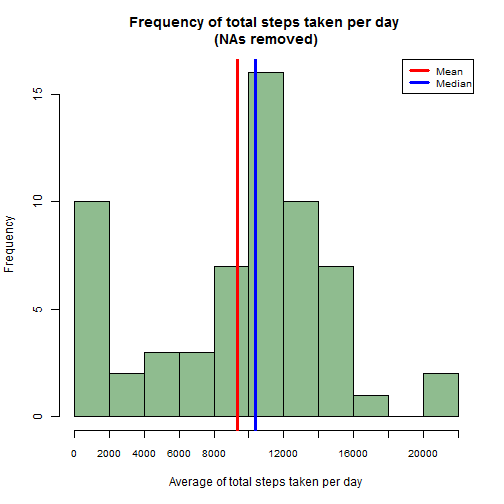
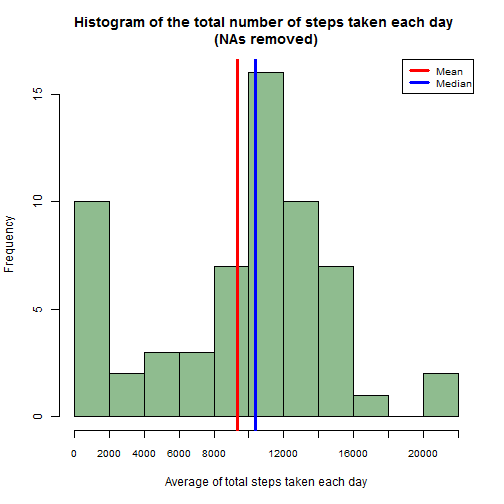
Changed titles of some plots

Changed region(s): [[0.1488, 0.0298, 0.8929, 0.0595], [0.3274, 0.9226, 0.744, 0.9821]]

diff --git a/PA1_template.html b/PA1_template.html
@@ -246,14 +246,14 @@ steptotal &lt;- data.frame(date = names(steptotal), total = steptotal, row.names
 
 <p>Having calculated the totals, we can now build the histogram. We will also include the lines for the mean (red) and median (blue).</p>
 
-<pre><code class="r">hist(steptotal$total, breaks = 11, xaxt = &quot;n&quot;, col = &quot;darkseagreen&quot;, xlab = &quot;Average of total steps taken per day&quot;, main =paste(&quot;Frequency of total steps taken per day&quot;, &quot;\n(NAs removed)&quot;))
+<pre><code class="r">hist(steptotal$total, breaks = 11, xaxt = &quot;n&quot;, col = &quot;darkseagreen&quot;, xlab = &quot;Average of total steps taken each day&quot;, main =paste(&quot;Histogram of the total number of steps taken each day&quot;, &quot;\n(NAs removed)&quot;))
 axis(1, at = seq(0, 22000, 2000), cex.axis = 0.8)
 abline(v = mean(steptotal$total), col = &quot;red&quot;, lwd = 3)
 abline(v = median(steptotal$total), col = &quot;blue&quot;, lwd = 3)
 legend(&quot;topright&quot;, lwd = 3, col = c(&quot;red&quot;, &quot;blue&quot;), legend = c(&quot;Mean&quot;, &quot;Median&quot;), cex = 0.8)
 </code></pre>
 
[2 lines of base64/hex data omitted]
 
 <p>We can see that the mean is smaller than the median and that they&#39;re both close to 10 000 steps per day.</p>
 
@@ -369,7 +369,7 @@ newsteptotal &lt;- data.frame(date = names(newsteptotal), total = newsteptotal, 
 
 <p>Plotting the histogram of the total number of steps taken per day, including the mean (orange), median (purple), and the mean and median from the original data set (red and blue):</p>
 
-<pre><code class="r">hist(newsteptotal$total, breaks = 11, xaxt = &quot;n&quot;, col = &quot;darkseagreen&quot;, xlab = &quot;Average of total steps taken per day&quot;, main =paste(&quot;Frequency of total steps taken per day&quot;, &quot;\n(NAs replaced)&quot;))
+<pre><code class="r">hist(newsteptotal$total, breaks = 11, xaxt = &quot;n&quot;, col = &quot;darkseagreen&quot;, xlab = &quot;Average of total steps taken per day&quot;, main =paste(&quot;Histogram of the total number of steps taken each day&quot;, &quot;\n(NAs replaced)&quot;))
 axis(1, at = seq(0, 22000, 2000), cex.axis = 0.8)
 abline(v = mean(newsteptotal$total), col = &quot;orange&quot;, lwd = 3)
 abline(v = median(newsteptotal$total), col = &quot;purple&quot;, lwd = 3)
@@ -378,7 +378,7 @@ abline(v = median(steptotal$total), col = &quot;blue&quot;, lwd = 3)
 legend(&quot;topright&quot;, lwd = 3, col = c(&quot;orange&quot;, &quot;purple&quot;, &quot;red&quot;, &quot;blue&quot;), legend = c(&quot;Mean&quot;, &quot;Median&quot;, &quot;Mean (original)&quot;, &quot;Median (original)&quot;), cex = 0.8)
 </code></pre>
 
[2 lines of base64/hex data omitted]
 
 <p>Notice the medians overlap, because we used the median of the 5-minute interval to fill in the NAs.
 Calculating both original and new mean:</p>
@@ -455,10 +455,10 @@ head(newstep)
 
 <p>Using the <code>lattice</code> package, we&#39;ll plot the average number of steps averaged across weekday days and weekend days, along the 5-minute interval.</p>
 
-<pre><code class="r">xyplot(steps ~ interval | day, data = replace(weekmean, &quot;day&quot;, structure(weekmean$day, levels = c(&quot;Weekday&quot;, &quot;Weekend&quot;))), type = &quot;l&quot;, layout = c(1, 2), xlab = &quot;5-minute interval&quot;, ylab = &quot;Average number of steps taken&quot;, main= &quot;Average of steps taken in each 5-minute interval, across weekends and weekdays&quot;, par.settings=list(par.main.text=list(cex=0.9)), col = &quot;darkcyan&quot;, lwd = 1.5)
+<pre><code class="r">xyplot(steps ~ interval | day, data = replace(weekmean, &quot;day&quot;, structure(weekmean$day, levels = c(&quot;Weekday&quot;, &quot;Weekend&quot;))), type = &quot;l&quot;, layout = c(1, 2), xlab = &quot;5-minute interval&quot;, ylab = &quot;Average number of steps taken&quot;, main= &quot;Average number of steps taken per 5-minute interval, across weekends and weekdays&quot;, par.settings=list(par.main.text=list(cex=0.9)), col = &quot;darkcyan&quot;, lwd = 1.5)
 </code></pre>
 
[2 lines of base64/hex data omitted]
 
 <p>This suggests the subject wakes up and goes to bed earlier during the weekdays, while waking up and going to bed at later hours during the weekend. 
 During the weekday, apart from the initial spike where the subject is probably going to work, the number of steps is lower than the number of steps on the weekend, for the same time frame.</p>

diff --git a/PA1_template.md b/PA1_template.md
@@ -54,7 +54,7 @@ steptotal <- data.frame(date = names(steptotal), total = steptotal, row.names = 
 Having calculated the totals, we can now build the histogram. We will also include the lines for the mean (red) and median (blue).
 
 ```r
-hist(steptotal$total, breaks = 11, xaxt = "n", col = "darkseagreen", xlab = "Average of total steps taken per day", main =paste("Frequency of total steps taken per day", "\n(NAs removed)"))
+hist(steptotal$total, breaks = 11, xaxt = "n", col = "darkseagreen", xlab = "Average of total steps taken each day", main =paste("Histogram of the total number of steps taken each day", "\n(NAs removed)"))
 axis(1, at = seq(0, 22000, 2000), cex.axis = 0.8)
 abline(v = mean(steptotal$total), col = "red", lwd = 3)
 abline(v = median(steptotal$total), col = "blue", lwd = 3)
@@ -194,7 +194,7 @@ newsteptotal <- data.frame(date = names(newsteptotal), total = newsteptotal, row
 Plotting the histogram of the total number of steps taken per day, including the mean (orange), median (purple), and the mean and median from the original data set (red and blue):
 
 ```r
-hist(newsteptotal$total, breaks = 11, xaxt = "n", col = "darkseagreen", xlab = "Average of total steps taken per day", main =paste("Frequency of total steps taken per day", "\n(NAs replaced)"))
+hist(newsteptotal$total, breaks = 11, xaxt = "n", col = "darkseagreen", xlab = "Average of total steps taken per day", main =paste("Histogram of the total number of steps taken each day", "\n(NAs replaced)"))
 axis(1, at = seq(0, 22000, 2000), cex.axis = 0.8)
 abline(v = mean(newsteptotal$total), col = "orange", lwd = 3)
 abline(v = median(newsteptotal$total), col = "purple", lwd = 3)
@@ -293,7 +293,7 @@ weekmean <- aggregate(steps ~ interval + day, data = newstep, mean)
 Using the `lattice` package, we'll plot the average number of steps averaged across weekday days and weekend days, along the 5-minute interval.
 
 ```r
-xyplot(steps ~ interval | day, data = replace(weekmean, "day", structure(weekmean$day, levels = c("Weekday", "Weekend"))), type = "l", layout = c(1, 2), xlab = "5-minute interval", ylab = "Average number of steps taken", main= "Average of steps taken in each 5-minute interval, across weekends and weekdays", par.settings=list(par.main.text=list(cex=0.9)), col = "darkcyan", lwd = 1.5)
+xyplot(steps ~ interval | day, data = replace(weekmean, "day", structure(weekmean$day, levels = c("Weekday", "Weekend"))), type = "l", layout = c(1, 2), xlab = "5-minute interval", ylab = "Average number of steps taken", main= "Average number of steps taken per 5-minute interval, across weekends and weekdays", par.settings=list(par.main.text=list(cex=0.9)), col = "darkcyan", lwd = 1.5)
 ```
 
 ![plot of chunk latplot](figure/latplot-1.png) 
